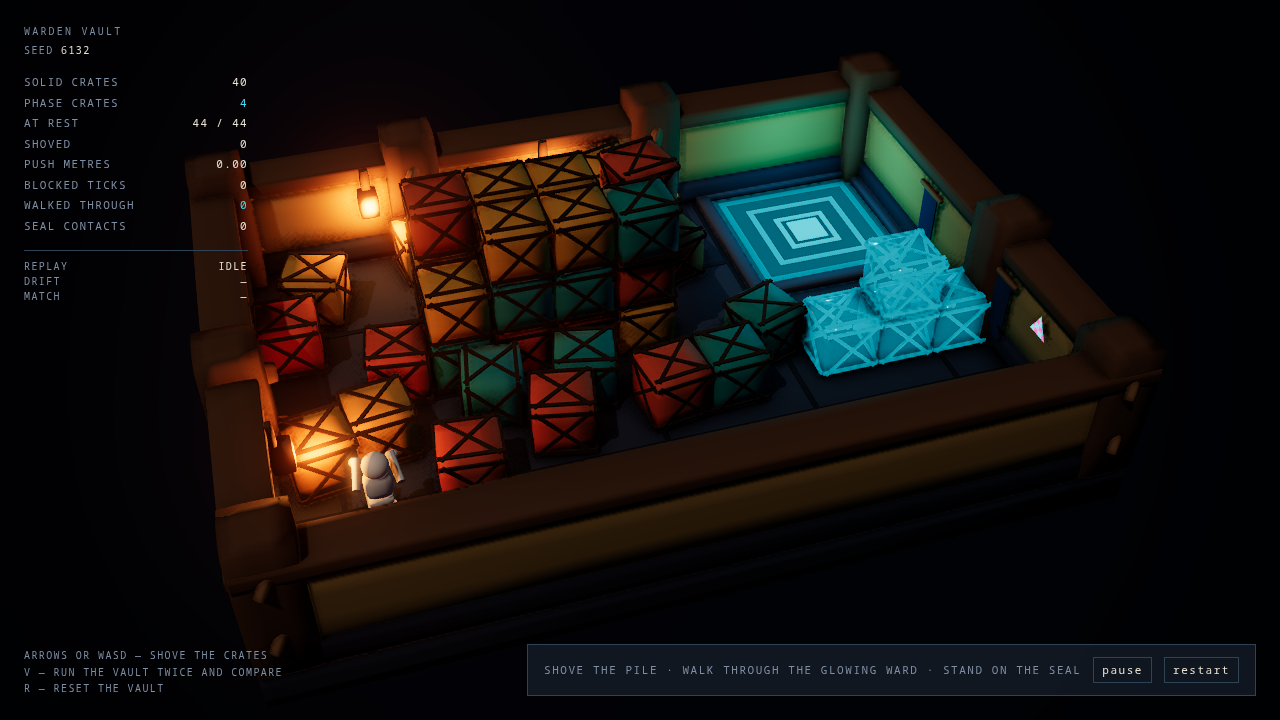
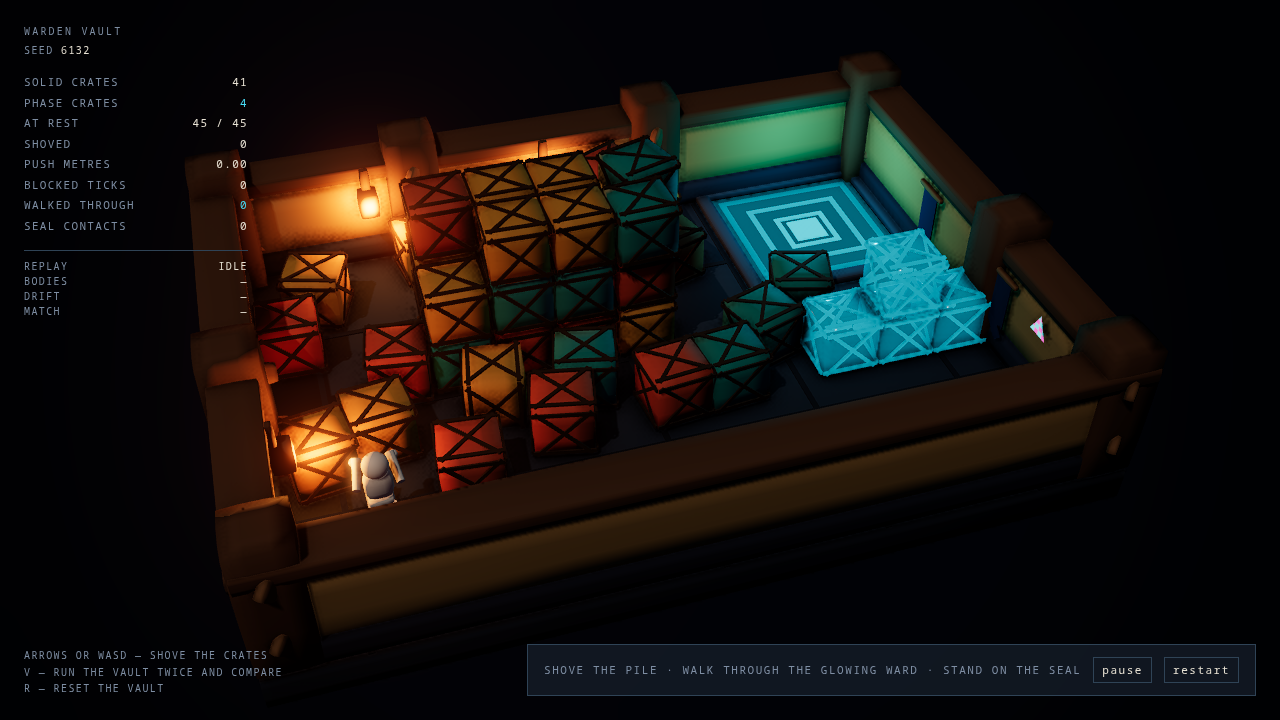
warden-vault: friction log header — the accounting, and the honest verdict
Fifteen entries, eight of them silent. About 45 of ~130 tool calls went to
proof; nine of eleven scenarios failed at least once and seven of those
failures were real defects in the game.

Claude-Session: https://claude.ai/code/session_01HCzuGiDfZLEv52BmnsTWEC

diff --git a/warden-vault/src/render/palette.ts b/warden-vault/src/render/palette.ts
@@ -6,11 +6,11 @@ export const palette = {
   /** Beyond the walls. Almost black, faintly blue. */
   void: 0x0a0e16,
   /** The flagstone floor. */
-  floor: 0x30394a,
+  floor: 0x2a3341,
   /** The seams between flagstones — one step darker, never black. */
   floorSeam: 0x171d29,
   /** The plaster band the lantern light lands on. */
-  wall: 0xb08a4e,
+  wall: 0xbb9155,
   /** The dark plinth under it and the skirting at the floor. */
   wallBase: 0x2b3242,
   /** Pillars, capping rail, lantern housings. */

diff --git a/warden-vault/friction.md b/warden-vault/friction.md
@@ -1,15 +1,68 @@
 # friction.md — warden-vault (physics-puzzle, framework arm)
 
-**First game code written at tool call:** (see below)
-**Total tool calls:** (updated at the end)
+**First game code written at tool call:** 22. Calls 1-21 were the operating contract, the scaffold,
+the reference image, the brief, the generated `AGENTS.md`, the four `.d.ts` files that stand in for
+the missing source, the assertion reference, and the capability searches — of which the searches and
+the `.d.ts` reading were worth every call and the rest was orientation.
+
+**Total tool calls:** ~130.
+
+**Where they went, roughly:** 20 on orientation, 25 on writing the game, 15 on the visual loop,
+**about 45 on proof** — writing scenarios, reading their failures, and fixing what they found — and
+the rest on commits and the friction log. The proof share is the headline number in this round and it
+is not waste: nine of the eleven scenarios failed at least once, and **seven of those failures were
+real defects in the game**, not bad assertions. Two of the seven would have shipped a game that dies
+on a documented keypress.
 
 ## Honest verdict
 
-(written at the end)
+The framework helped, and the help and the friction came from the same place. Physics, the fixed
+step, input, the render chain, the state bridge and the loading screen are all real and all worked;
+`TN_WORLD_ENVIRONMENT` naming every stage it did *not* build, `TN_QUALITY_TIER` naming the source of
+the tier, and the asset error page printing both URLs it tried are better diagnostics than most
+engines ship. I never had to write a renderer, a loop, a collision solver or a state bridge: the
+game is **2,121 lines I wrote**, on top of 1,963 lines of generated source I kept largely unchanged
+(the render chain, the loading screen, the shape helpers, the UI shell), plus 736 lines of scenario
+JSON. But the two hardest days of this build were both framework
+gaps rather than game problems: **a dynamic rigid body cannot be repositioned**, which makes "run the
+simulation again from the same state" inexpressible without destroying and rebuilding every body —
+and rebuilding changes the answer, deterministically and invisibly (F10); and **the playtest surface
+keys on a physics `entity` namespace that is not the scene-registry namespace**, so a game whose
+trigger demonstrably fired reports no contact at all (F9). Both are silent. Neither is discoverable
+from the types.
+
+The playtest runner itself is the best part of the framework and the most expensive. Its diagnostics
+are specific enough to act on — it names the path, prints the value, and refuses to let an assertion
+that was already true count as proof — and that refusal is *right*: it caught four rows of mine that
+proved nothing, including one that had been green for two suite runs while measuring a deferred
+transform that was always zero (F12). The cost is that the triviality rule cannot see a value that
+changed before its first sample (F7) or one that came back to where it started (F14), and its own
+suggested remedy (`changed: true`) does not fix either. Every one of those cost a build and a run.
+
+Net: **helped**, clearly — but the friction is concentrated in exactly the surface this round is
+about, and it is the kind that costs a day rather than a minute.
 
 ## What I wrote by hand that the framework already shipped
 
-(updated as discovered)
+Nothing large, and I checked. Before the determinism work I searched
+`engine_search_capabilities` for "put a rigid body back where it started and reset the physics
+world", "restart a level so the physics simulation begins from the same state" and "compare two runs
+of the same simulation for determinism"; the index returned `afterPhysics`, `CollisionShape3D`,
+`rapier`, `Joint3D`, `TerrainTiles`, `sendUiIntent`, `buildStaticColliders`, `createRandom`,
+`Scheduler` and `GPUReadback`. None of them resets a body, and the digest-and-drift comparison I
+wrote (about 30 lines) has no equivalent in the manifest. `createReplayDriver` is the closest thing
+and it replays *input*, which was never the problem — my input was already scripted and pure.
+
+Two smaller ones, both caught by searching first rather than after: I nearly hand-rolled a seeded
+PRNG before using `ctx.random`, and I considered writing an instanced draw for forty crates before
+reading `InstancedBatch` — which I then correctly did **not** use, because every crate carries its
+own simulated transform and instancing would have meant writing forty matrices a frame to save
+forty draws.
+
+One I got wrong in the other direction: the starter's `shapes.ts` already had `roundedBox`, and I
+used it — but I wrote `crateShape.ts`'s geometry merge without searching first, and `mergeGeometries`
+silently returns `null` when its inputs' attribute sets differ. `roundedBox` deletes its UVs, my
+plank boxes had them, and I only avoided a null geometry because I happened to remember the rule.
 
 ---
 
